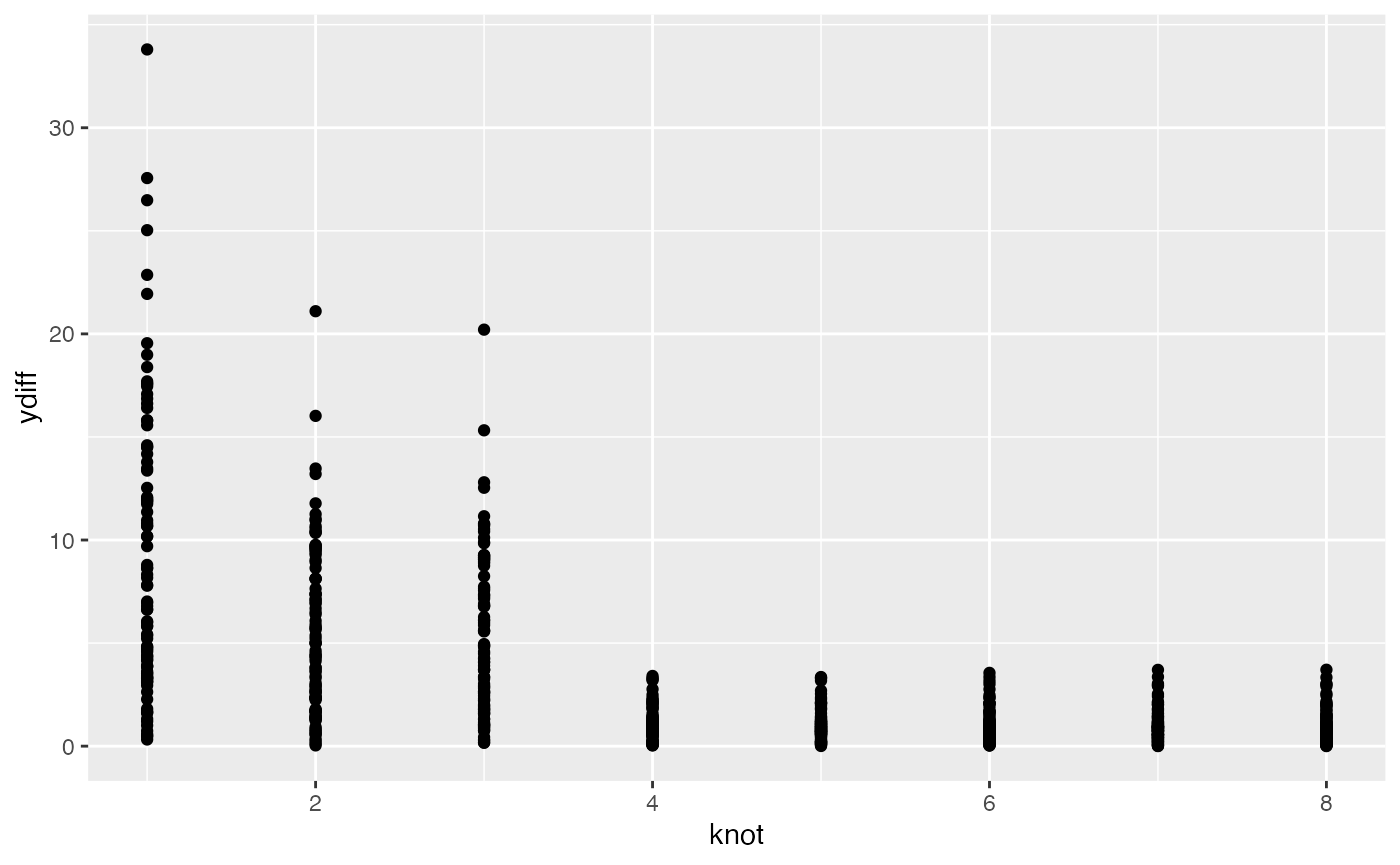
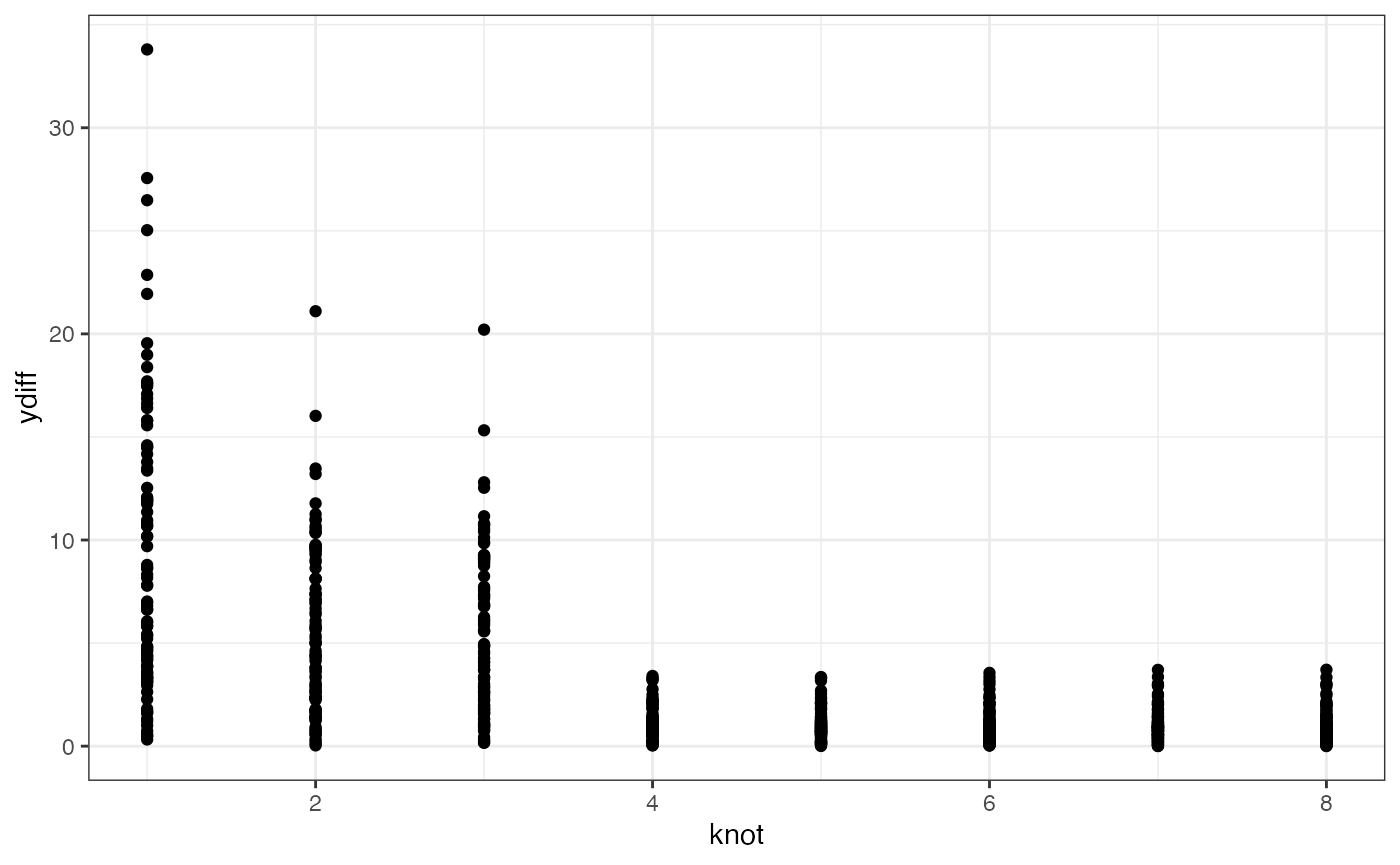
theme_bw

Changed region(s): [[0.9829, 0.874, 1.0, 0.9052], [0.0614, 0.874, 0.0921, 0.9052]]

diff --git a/docs/articles/examples.html b/docs/articles/examples.html
@@ -210,7 +210,8 @@ the predicted and the actual y for each knot:</p>
   <span class="op">)</span> <span class="op"><a href="../reference/pipe.html">%&gt;%</a></span> 
   <span class="fu">ggplot2</span><span class="fu">::</span><span class="fu"><a href="https://ggplot2.tidyverse.org/reference/ggplot.html" class="external-link">ggplot</a></span><span class="op">(</span><span class="op">)</span> <span class="op">+</span> 
   <span class="fu">ggplot2</span><span class="fu">::</span><span class="fu"><a href="https://ggplot2.tidyverse.org/reference/aes.html" class="external-link">aes</a></span><span class="op">(</span>x <span class="op">=</span> <span class="va">knot</span>, y <span class="op">=</span> <span class="va">ydiff</span><span class="op">)</span> <span class="op">+</span> 
-  <span class="fu">ggplot2</span><span class="fu">::</span><span class="fu"><a href="https://ggplot2.tidyverse.org/reference/geom_point.html" class="external-link">geom_point</a></span><span class="op">(</span><span class="op">)</span></code></pre></div>
+  <span class="fu">ggplot2</span><span class="fu">::</span><span class="fu"><a href="https://ggplot2.tidyverse.org/reference/geom_point.html" class="external-link">geom_point</a></span><span class="op">(</span><span class="op">)</span> <span class="op">+</span> 
+  <span class="fu"><a href="https://ggplot2.tidyverse.org/reference/ggtheme.html" class="external-link">theme_bw</a></span><span class="op">(</span><span class="op">)</span></code></pre></div>
 <p><img src="examples_files/figure-html/unnamed-chunk-11-1.png" width="700"></p>
 <div class="section level3">
 <h3 id="cross-validation-1">Cross validation<a class="anchor" aria-label="anchor" href="#cross-validation-1"></a>
